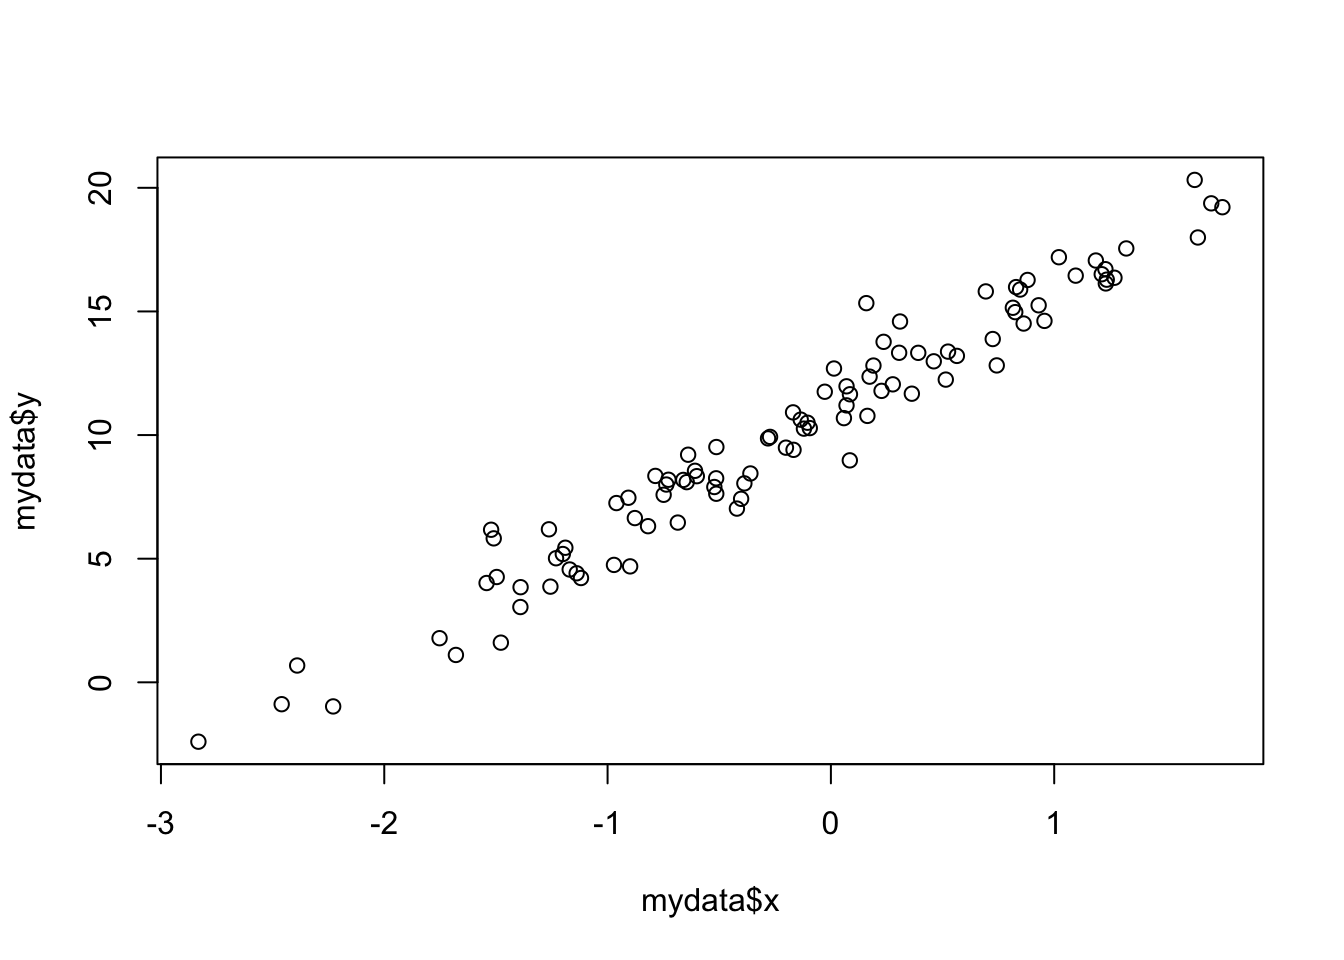
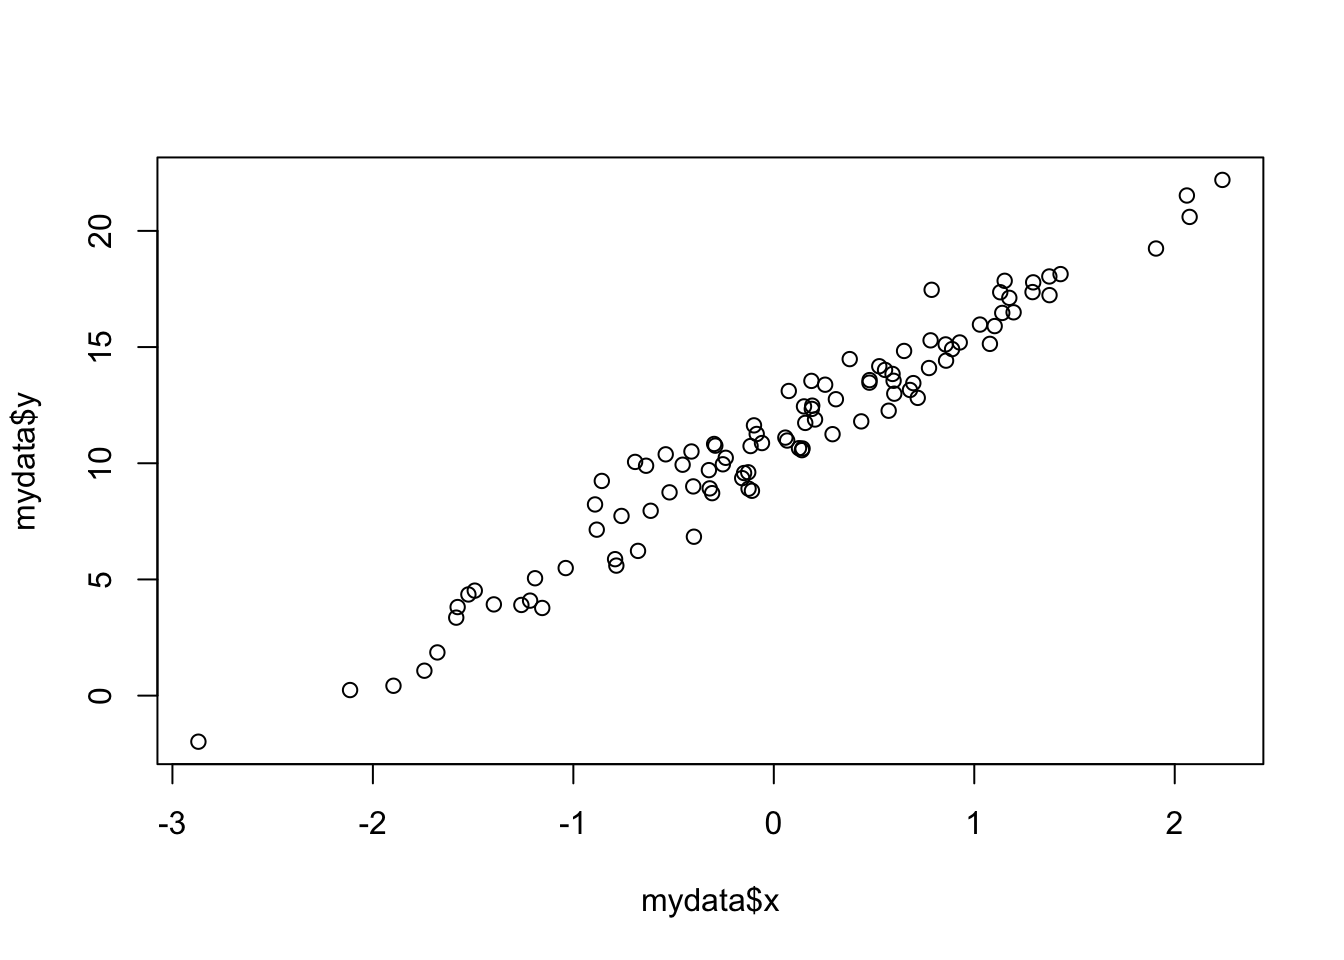
minor tweaks

diff --git a/public/week-1/index.html b/public/week-1/index.html
@@ -50,8 +50,8 @@
   <h1>Week 1: Introduction</h1>
   <span class="post-date">Wed, Jan 31, 2018</span>
   <span class="post-date">Made by Judit Kisistók. The R exercise session was created by Palle Villesen and Thomas Bataillon at Aarhus University.</span>
-  <div id="a.-table-of-contents" class="section level3">
-<h3><a name="toc"></a>A. Table of contents</h3>
+  <div id="table-of-contents" class="section level3">
+<h3><a name="toc"></a>Table of contents</h3>
 <ol style="list-style-type: decimal">
 <li><a href="#toc">Table of contents</a></li>
 <li><a href="#goals">Learning goals</a></li>
@@ -152,21 +152,21 @@ mydata$y = 5 * mydata$x + 11.0 + rnorm(100)
 # mydata$y appends another column (variable) to your dataframe
 # the expression after &quot;=&quot; just means that this y variable is populated by values that are 5 * corresponding x + 11 + a value randomly sampled from a normal distribution
 summary(mydata) </code></pre>
-<pre><code>##        x                 y         
-##  Min.   :-2.8323   Min.   :-2.401  
-##  1st Qu.:-0.8832   1st Qu.: 6.597  
-##  Median :-0.1512   Median :10.093  
-##  Mean   :-0.1883   Mean   :10.054  
-##  3rd Qu.: 0.5345   3rd Qu.:13.799  
-##  Max.   : 1.7532   Max.   :20.319</code></pre>
+<pre><code>##        x                  y         
+##  Min.   :-2.87045   Min.   :-1.982  
+##  1st Qu.:-0.55799   1st Qu.: 8.799  
+##  Median : 0.10011   Median :11.178  
+##  Mean   : 0.03312   Mean   :11.153  
+##  3rd Qu.: 0.70144   3rd Qu.:14.235  
+##  Max.   : 2.23780   Max.   :22.194</code></pre>
 <pre class="r"><code>head(mydata) # you can see the first couple lines of your data frame - useful for seeing what kind of variables you have </code></pre>
 <pre><code>##            x         y
-## 1 -1.2004886  5.189066
-## 2 -1.4964708  4.259197
-## 3 -1.1890994  5.443291
-## 4  1.1864240 17.059328
-## 5  0.9302871 15.248602
-## 6 -0.7370018  7.999347</code></pre>
+## 1 -1.1911185  5.051858
+## 2 -2.8704456 -1.982322
+## 3 -0.4108695 10.506126
+## 4 -0.1576926  9.358624
+## 5 -0.5392134 10.384035
+## 6 -1.5842660  3.356147</code></pre>
 <pre class="r"><code>plot(x = mydata$x, y = mydata$y) # it&#39;s good to specify which data you want on the x axis and which to put on the y axis</code></pre>
 <p><img src="/week1_files/figure-html/unnamed-chunk-10-1.png" width="672" /></p>
 <p><em>Take me back to <a href="#toc">the beginning!</a></em></p>

diff --git a/content/week1.html b/content/week1.html
@@ -11,8 +11,8 @@ tags: []
 
 
 
-<div id="a.-table-of-contents" class="section level3">
-<h3><a name="toc"></a>A. Table of contents</h3>
+<div id="table-of-contents" class="section level3">
+<h3><a name="toc"></a>Table of contents</h3>
 <ol style="list-style-type: decimal">
 <li><a href="#toc">Table of contents</a></li>
 <li><a href="#goals">Learning goals</a></li>
@@ -113,21 +113,21 @@ mydata$y = 5 * mydata$x + 11.0 + rnorm(100)
 # mydata$y appends another column (variable) to your dataframe
 # the expression after &quot;=&quot; just means that this y variable is populated by values that are 5 * corresponding x + 11 + a value randomly sampled from a normal distribution
 summary(mydata) </code></pre>
-<pre><code>##        x                 y         
-##  Min.   :-2.8323   Min.   :-2.401  
-##  1st Qu.:-0.8832   1st Qu.: 6.597  
-##  Median :-0.1512   Median :10.093  
-##  Mean   :-0.1883   Mean   :10.054  
-##  3rd Qu.: 0.5345   3rd Qu.:13.799  
-##  Max.   : 1.7532   Max.   :20.319</code></pre>
+<pre><code>##        x                  y         
+##  Min.   :-2.87045   Min.   :-1.982  
+##  1st Qu.:-0.55799   1st Qu.: 8.799  
+##  Median : 0.10011   Median :11.178  
+##  Mean   : 0.03312   Mean   :11.153  
+##  3rd Qu.: 0.70144   3rd Qu.:14.235  
+##  Max.   : 2.23780   Max.   :22.194</code></pre>
 <pre class="r"><code>head(mydata) # you can see the first couple lines of your data frame - useful for seeing what kind of variables you have </code></pre>
 <pre><code>##            x         y
-## 1 -1.2004886  5.189066
-## 2 -1.4964708  4.259197
-## 3 -1.1890994  5.443291
-## 4  1.1864240 17.059328
-## 5  0.9302871 15.248602
-## 6 -0.7370018  7.999347</code></pre>
+## 1 -1.1911185  5.051858
+## 2 -2.8704456 -1.982322
+## 3 -0.4108695 10.506126
+## 4 -0.1576926  9.358624
+## 5 -0.5392134 10.384035
+## 6 -1.5842660  3.356147</code></pre>
 <pre class="r"><code>plot(x = mydata$x, y = mydata$y) # it&#39;s good to specify which data you want on the x axis and which to put on the y axis</code></pre>
 <p><img src="/week1_files/figure-html/unnamed-chunk-10-1.png" width="672" /></p>
 <p><em>Take me back to <a href="#toc">the beginning!</a></em></p>
